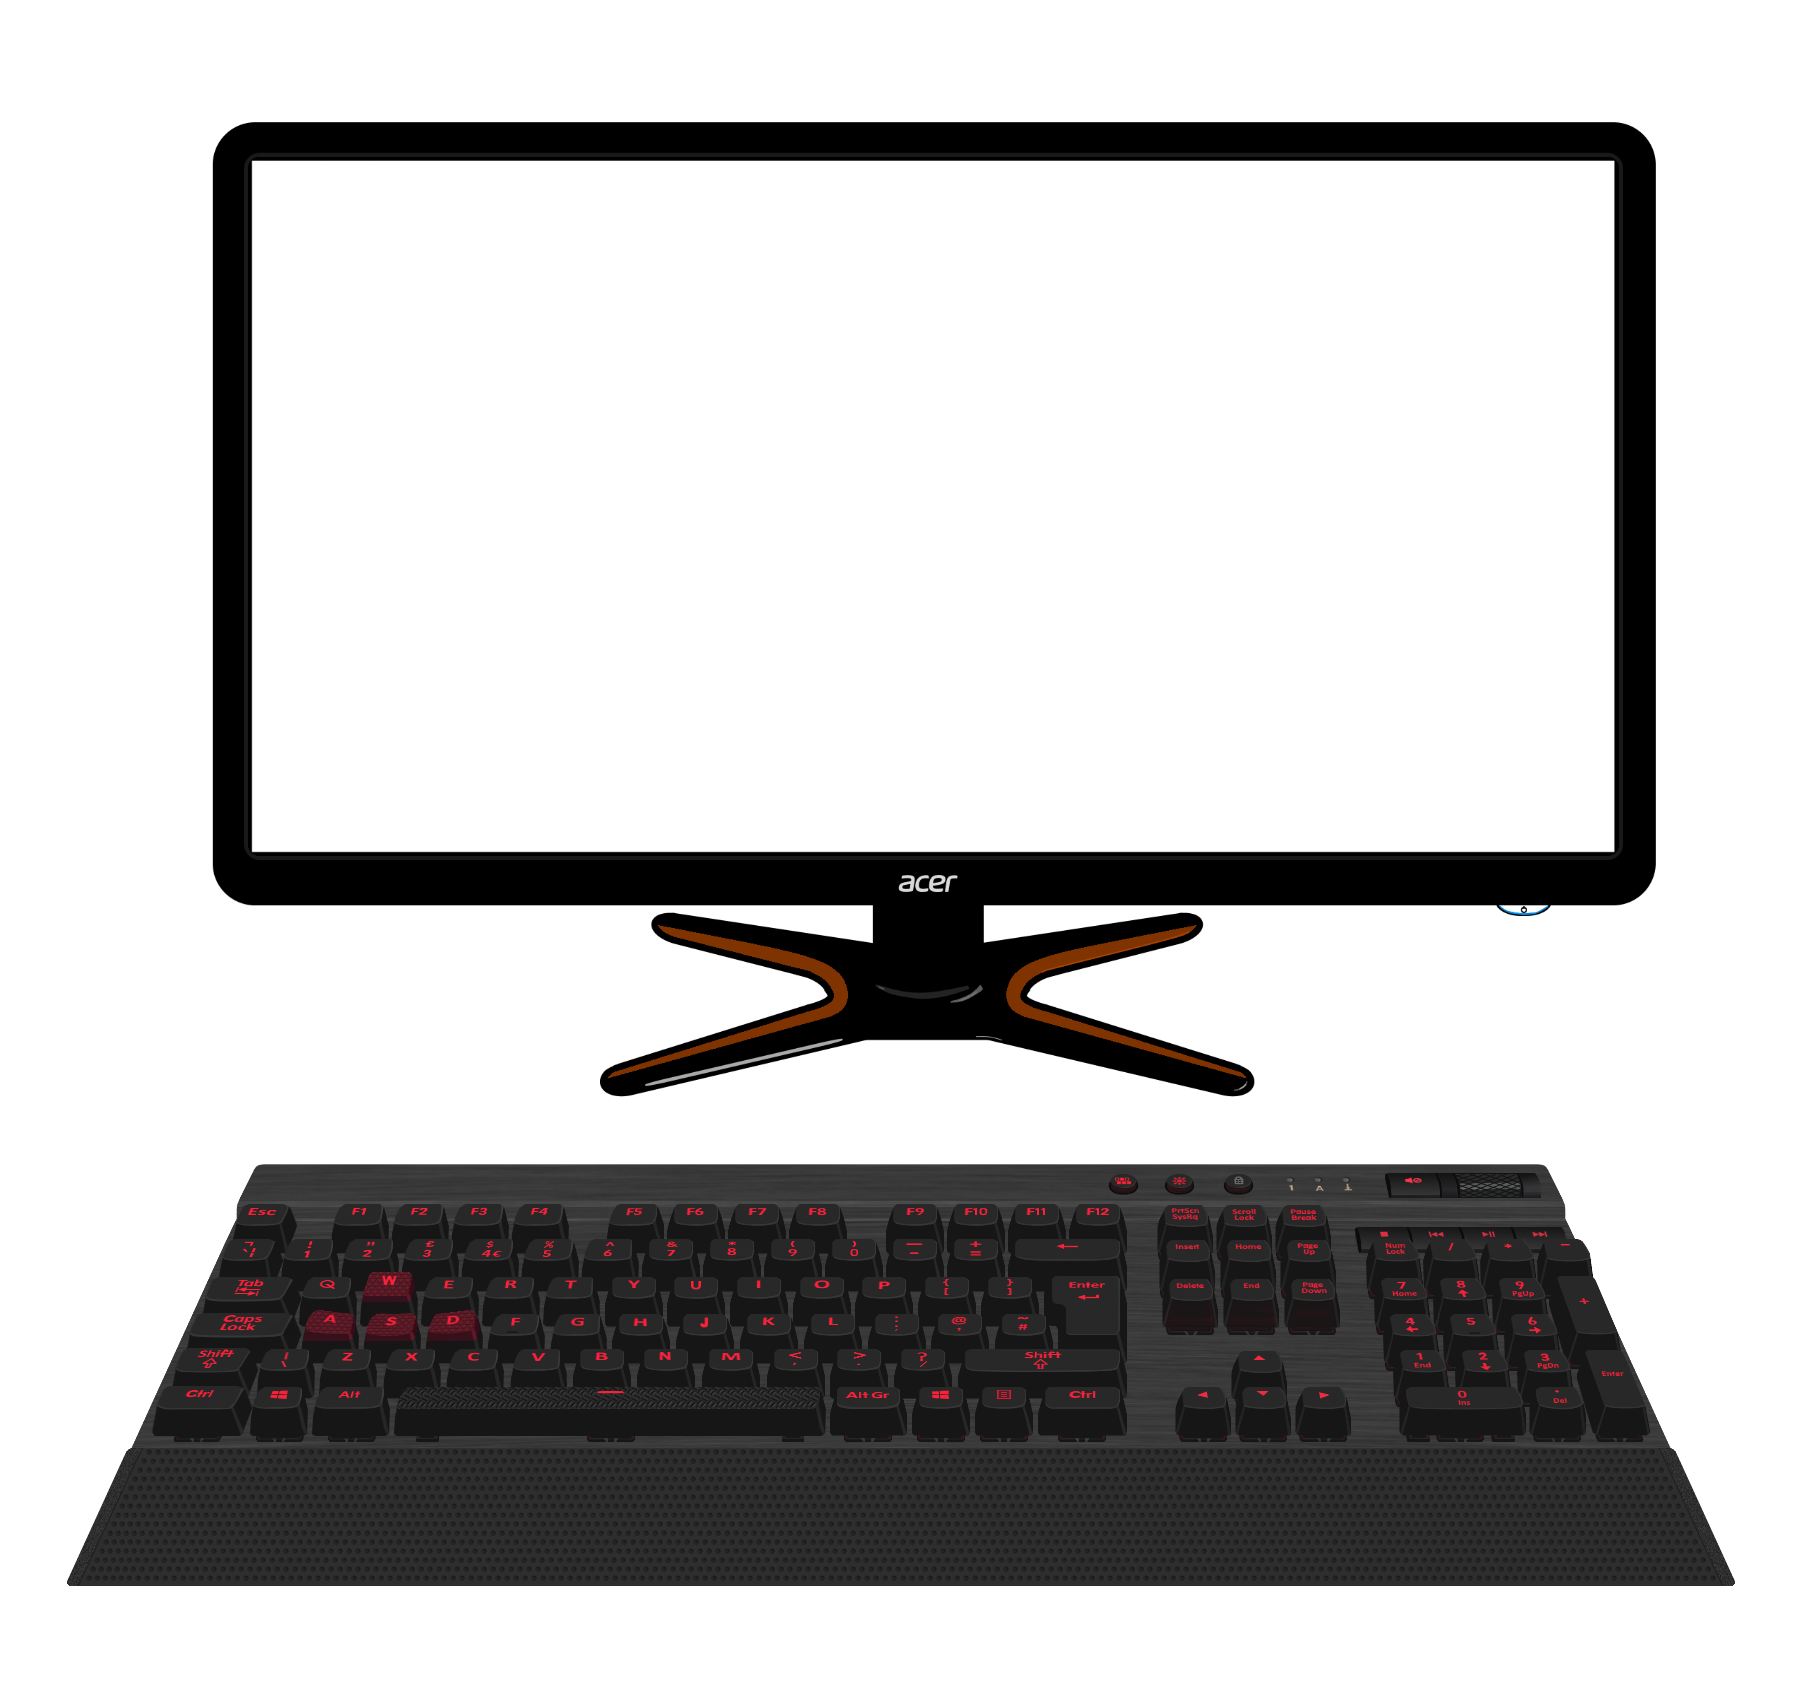
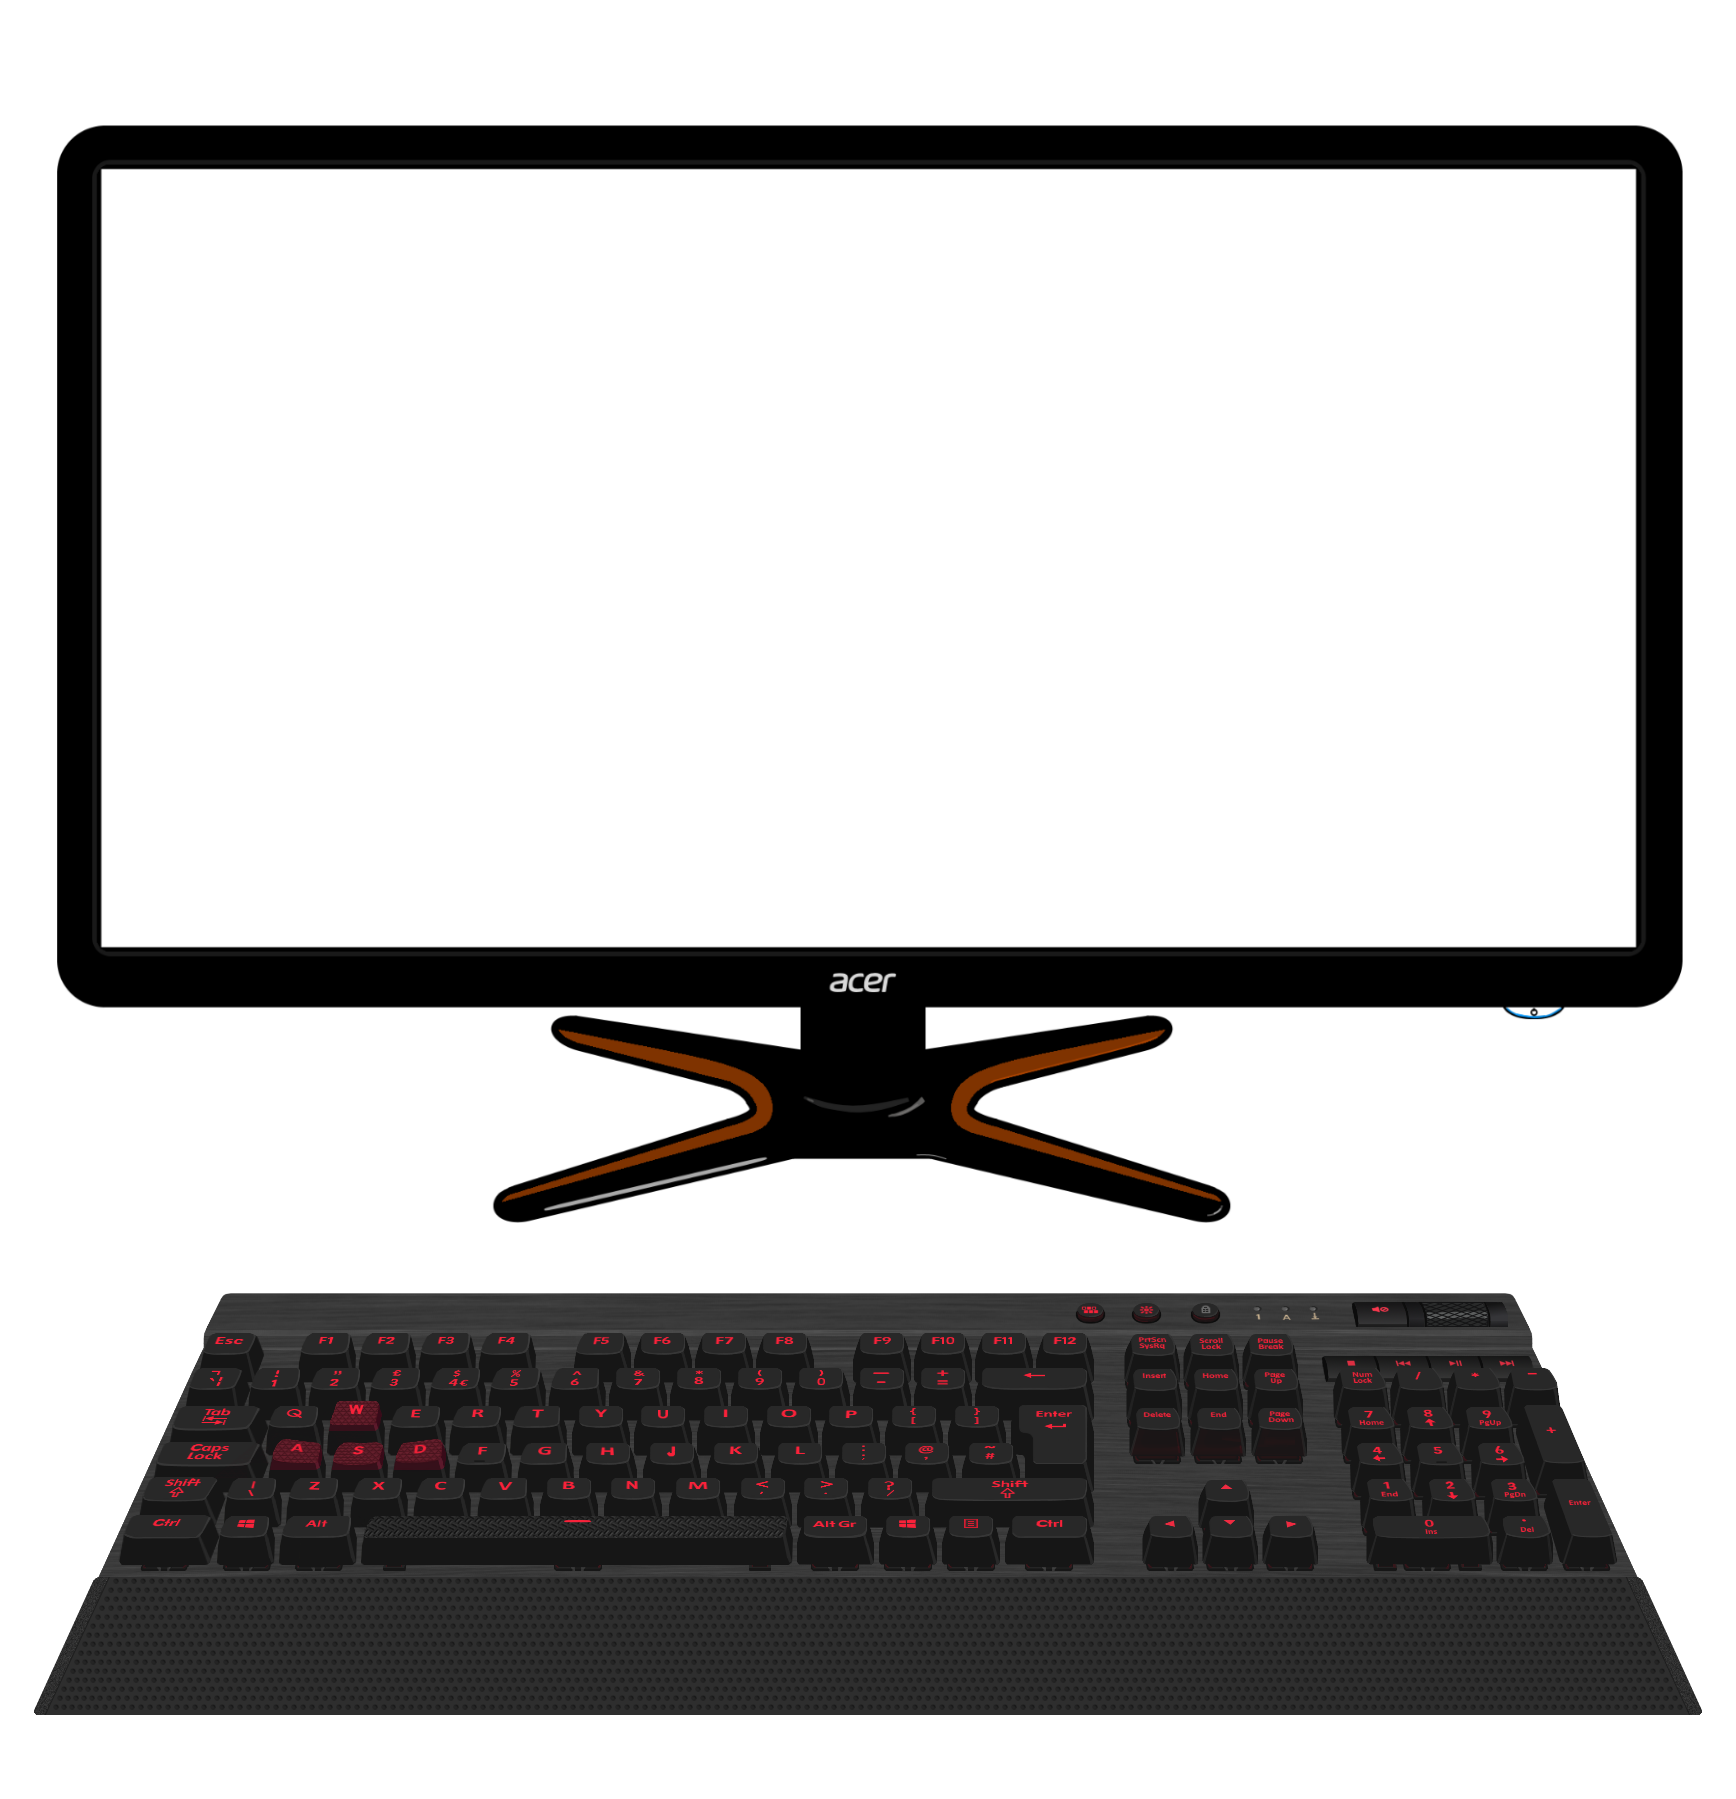
Removed unwanted png.

Changed region(s): [[0.0311, 0.0621, 0.9954, 0.8699], [0.0, 0.8699, 0.9954, 0.9631], [0.871, 0.8388, 0.9021, 0.8699]]

diff --git a/index.html b/index.html
@@ -41,7 +41,7 @@
 
 	<section id="welcome-section">
 		<!--<h1 id="page-title">Slick Responsive Design</h1>-->
-		<img src="./done1.png" class="scaling-img">
+		<img src="./done.png" class="scaling-img">
 	</section>
 
 	<section id="project-section">
